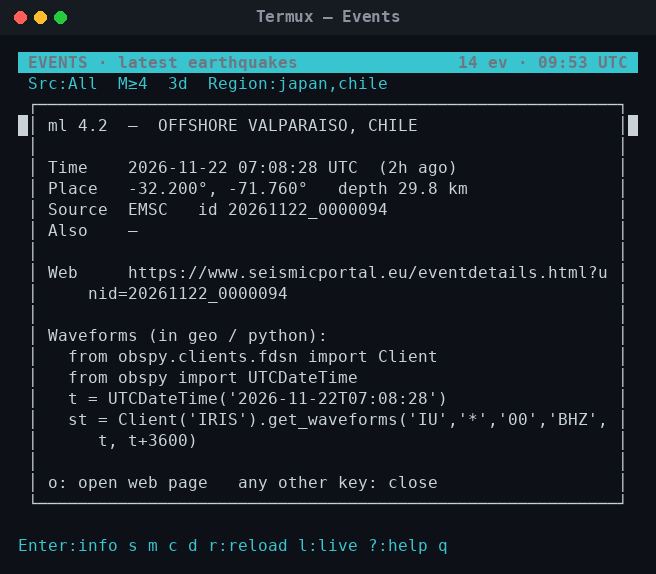
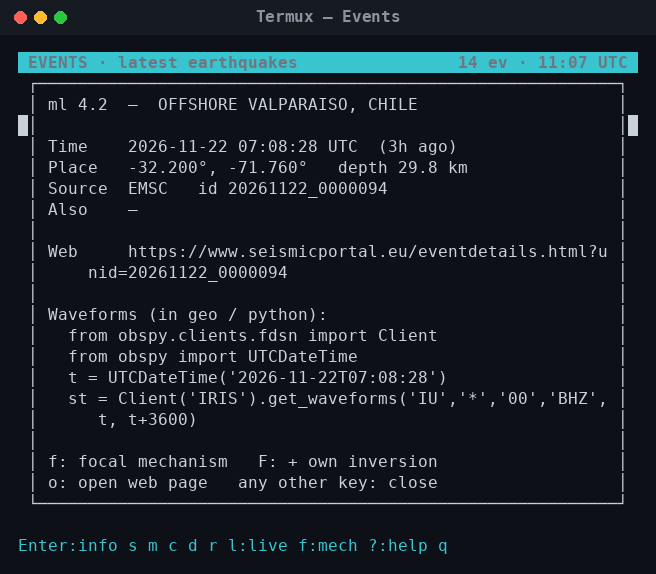
Update events-details.png (f/F mechanism keys) and tplot.png (larger, readable labels)

diff --git a/docs/tools/quake_tplot.py b/docs/tools/quake_tplot.py
@@ -15,12 +15,14 @@ st.detrend("demean").filter("bandpass", freqmin=0.02, freqmax=1.0)
 tr = st[0]
 print(f"{tr.id}  {tr.stats.starttime.strftime('%Y-%m-%d %H:%M:%S')}  {tr.stats.npts} samples @ {tr.stats.sampling_rate:g} Hz")
 
-fig, ax = plt.subplots(figsize=(10, 4), facecolor="#0d1117")
+plt.rcParams.update({"font.size": 15, "font.weight": "bold"})   # large text survives the character grid
+fig, ax = plt.subplots(figsize=(10, 4.2), facecolor="#0d1117")
 ax.set_facecolor("#0d1117")
-ax.plot(tr.times() / 60, tr.data, color="#4fc3f7", lw=1.0)
-ax.set_title("M6.8 Banda Sea · IU.CTAO (22°) · BHZ 0.02–1 Hz", color="white")
+ax.plot(tr.times() / 60, tr.data * 1e-3, color="#4fc3f7", lw=1.0)   # counts -> x1000
+ax.set_title("M6.8 Banda Sea  ·  IU.CTAO 22°", color="white")
 ax.set_xlabel("minutes after origin", color="white")
+ax.set_yticks([])
 ax.tick_params(colors="white")
 for s in ax.spines.values():
     s.set_color("#30363d")
-plt.show(size="82x24")
+plt.show(size="118x34")

diff --git a/docs/tools/term_capture.py b/docs/tools/term_capture.py
@@ -47,7 +47,7 @@ SESSIONS = {
                "printf '\\033[32m~/projects $\\033[0m python quake_tplot.py\\n'; "
                f"proot-distro login ubuntu --bind {REPO}:/opt/seisbox -- "
                "env TERM=xterm-256color PYTHONWARNINGS=ignore /root/geo/bin/python "
-               "/opt/seisbox/docs/tools/quake_tplot.py"], 84, 30, [(b"", 45.0, 1000)]),
+               "/opt/seisbox/docs/tools/quake_tplot.py"], 120, 40, [(b"", 45.0, 1000)]),
 }
 
 
